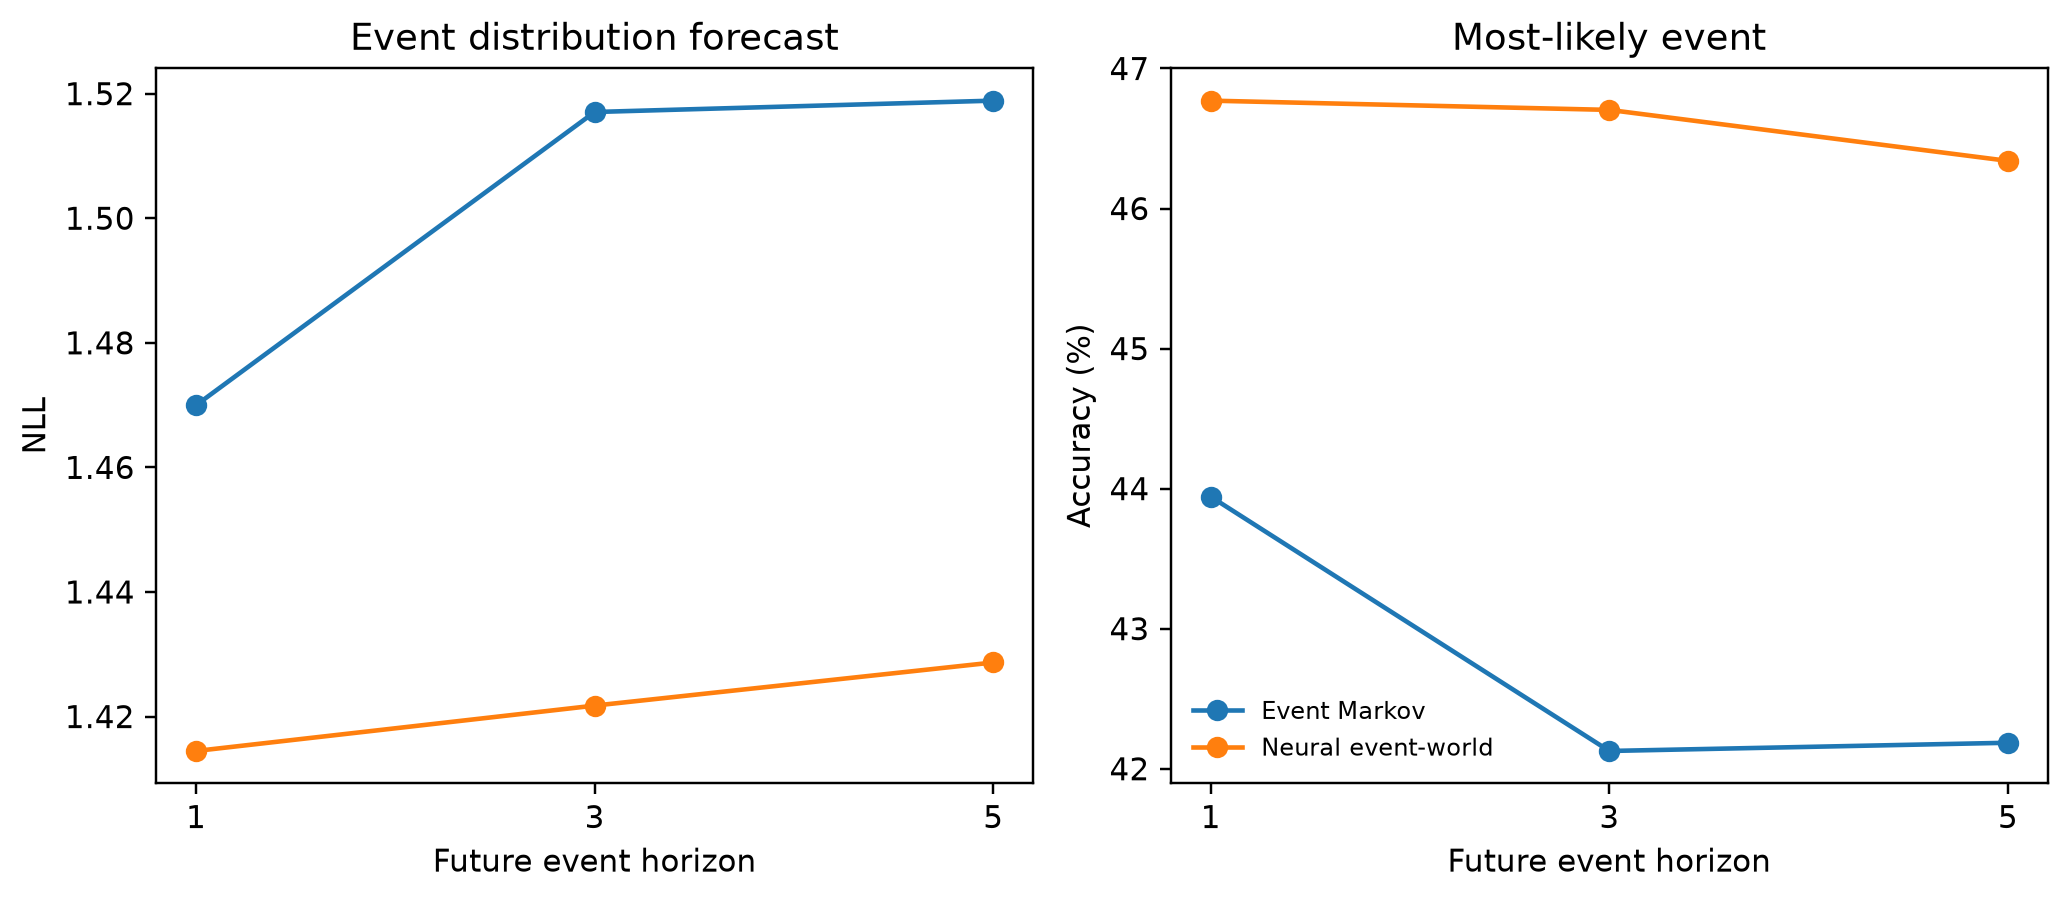
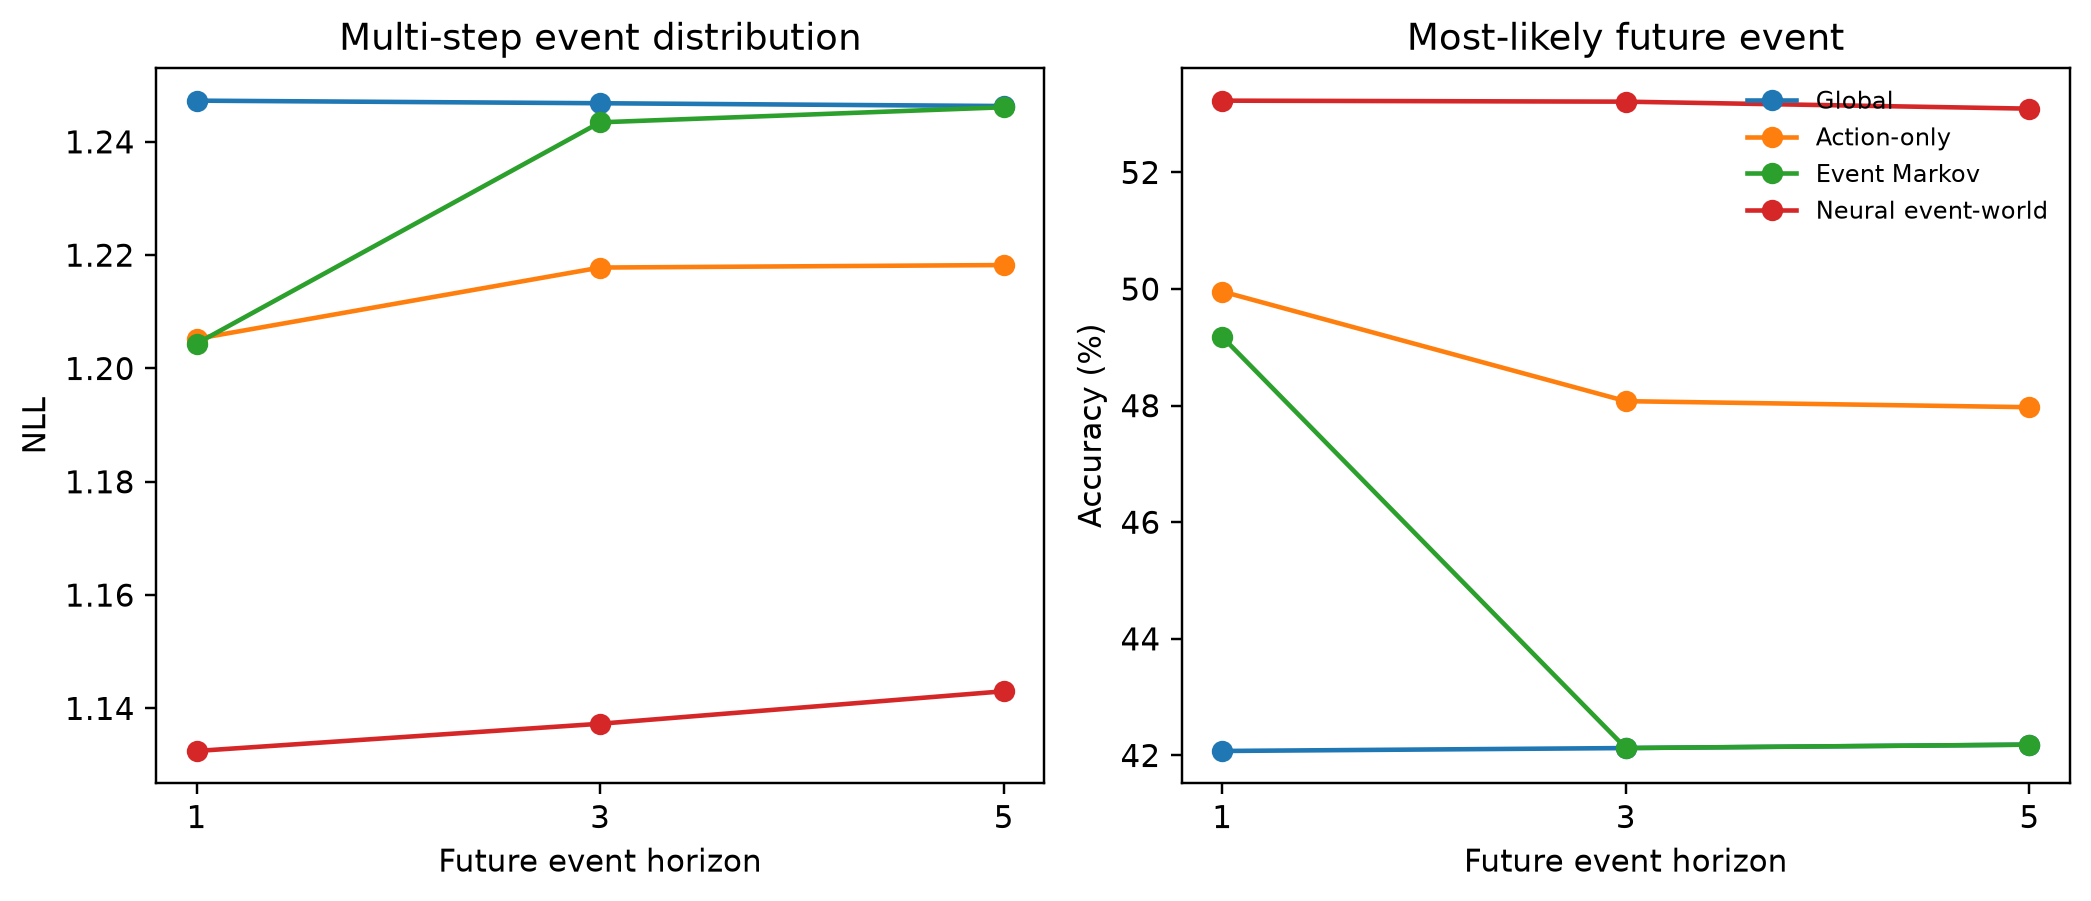
Add event-world view and social geometry colors

diff --git a/virtual-mouse-atlas/world_model.js b/virtual-mouse-atlas/world_model.js
@@ -22,6 +22,9 @@ function motifNeural(){return (current.trajectory||[]).map(x=>({step:x.step,moti
 function motifGate(){return (current.trajectory||[]).map(x=>({step:x.step,motif:x.gate_top_motif,label:x.gate_top_label}));}
 
 function eventActual(){return (EW.hero.actual||[]).map((id,i)=>({step:i+1,event:id,label:eventName(id)}));}
+function eventGlobal(){return (EW.hero.global_frequency||[]).map((x,i)=>({step:i+1,event:x.top,label:eventName(x.top),probs:x.probs}));}
+function eventPersistence(){return (EW.hero.persistence||[]).map((x,i)=>({step:i+1,event:x.top,label:eventName(x.top),probs:x.probs}));}
+function eventAction(){return (EW.hero.action_only||[]).map((x,i)=>({step:i+1,event:x.top,label:eventName(x.top),probs:x.probs}));}
 function eventMarkov(){return (EW.hero.markov||[]).map((x,i)=>({step:i+1,event:x.top,label:eventName(x.top),probs:x.probs}));}
 function eventNeural(){return (EW.hero.neural||[]).map((x,i)=>({step:i+1,event:x.top,label:eventName(x.top),probs:x.probs}));}
 function eventGate(){return (EW.hero.gate||[]).map((x,i)=>({step:i+1,event:x.top,label:eventName(x.top),probs:x.probs}));}
@@ -65,8 +68,9 @@ function selectEvent(fr){
 function setView(v){
   view=v;
   if(view==="event"){
-    current=WM.events.find(x=>Number(x.event_frame)===Number(WM.default_event_frame))||WM.events[0];
-    sel.value=String(WM.default_event_frame);seekCurrent();
+    const fr=Number(EW&&EW.hero?EW.hero.frame:WM.default_event_frame);
+    current=WM.events.find(x=>Number(x.event_frame)===fr)||WM.events[0];
+    sel.value=String(fr);seekCurrent();
   }
   if(viewToggle)viewToggle.querySelectorAll("button").forEach(b=>b.classList.toggle("active",b.dataset.view===view));
   sel.disabled=view==="event";btn.disabled=view==="event";
@@ -79,14 +83,14 @@ if(viewToggle)viewToggle.addEventListener("click",e=>{const b=e.target.closest("
 
 function renderHero(){
   if(view==="event"){
-    const act=eventActual(),nw=eventNeural(),mk=eventMarkov();
-    const [nn,nN]=matchCount(nw,act,"event"),[mn,mN]=matchCount(mk,act,"event");
-    const n=eventSummary("Neural world + event head"),m=eventSummary("Event Markov"),h5=horizonSummary(5);
+    const act=eventActual(),nw=eventNeural(),mk=eventMarkov(),ao=eventAction(),gl=eventGlobal();
+    const [nn,nN]=matchCount(nw,act,"event"),[mn,mN]=matchCount(mk,act,"event"),[an,aN]=matchCount(ao,act,"event"),[gn,gN]=matchCount(gl,act,"event");
+    const n=eventSummary("Neural world + event head"),m=eventSummary("Event Markov"),a=eventSummary("Action-only"),g=eventSummary("Global frequency"),h5=horizonSummary(5);
     const cards=[
-      ["Neural exact event steps",nn+"/"+nN,"top-1 Observe/bout matches"],
-      ["Event Markov exact steps",mn+"/"+mN,"same held-out future"],
-      ["One-step NLL",fmt(n.nll,3)+" vs "+fmt(m.nll,3),"Neural event-world vs Event Markov"],
-      ["5-step accuracy",pct(h5.neural_acc)+" vs "+pct(h5.markov_acc),"27 held-out animals"]
+      ["Hero exact steps","Neural "+nn+"/"+nN,"Action "+an+"/"+aN+" · Markov "+mn+"/"+mN+" · Global "+gn+"/"+gN],
+      ["One-step accuracy",pct(n.accuracy),"Action "+pct(a.accuracy)+" · Markov "+pct(m.accuracy)+" · Global "+pct(g.accuracy)],
+      ["One-step NLL",fmt(n.nll,3),"Linear "+fmt(eventSummary("Full-history linear").nll,3)+" · Markov "+fmt(m.nll,3)],
+      ["5-step accuracy",pct(h5.neural_acc),"Action "+pct(h5.action_acc)+" · Markov "+pct(h5.markov_acc)+" · Global "+pct(h5.global_acc)]
     ];
     heroStats.innerHTML=cards.map(c=>'<div class="world-hero-stat"><div class="k">'+c[0]+'</div><div class="v">'+c[1]+'</div><div class="d">'+c[2]+'</div></div>').join("");
     return;
@@ -126,10 +130,13 @@ function sequenceRow(label,kind,seq,actual,mode){
 }
 function renderSequence(){
   if(view==="event"){
-    const act=eventActual(),mk=eventMarkov(),nw=eventNeural(),gd=eventGate();
+    const act=eventActual(),gl=eventGlobal(),ps=eventPersistence(),ao=eventAction(),mk=eventMarkov(),nw=eventNeural(),gd=eventGate();
     strip.innerHTML=
-      '<div class="future-strip-head"><span>Same present</span><strong>→ next 8 Observe / bout events</strong><span>✓ exact top-1 event match</span></div>'+
+      '<div class="future-strip-head"><span>Same present</span><strong>→ next 8 Observe / feeding-bout events</strong><span>✓ exact top-1 event match</span></div>'+
       sequenceRow("Actual","actual",act,act,"event")+
+      sequenceRow("Global frequency","markov",gl,act,"event")+
+      sequenceRow("Persistence","markov",ps,act,"event")+
+      sequenceRow("Action-only","markov",ao,act,"event")+
       sequenceRow("Event Markov","markov",mk,act,"event")+
       sequenceRow("Neural event-world","neural",nw,act,"event")+
       sequenceRow("Social-gated","gated",gd,act,"event");

diff --git a/virtual-mouse-atlas/index.html b/virtual-mouse-atlas/index.html
@@ -55,7 +55,7 @@
       <article class="world-card">
         <div class="eyebrow" id="worldFutureEyebrow">FOUR FUTURES FROM THE SAME PRESENT</div>
         <canvas id="worldFutureMap"></canvas>
-        <img id="worldEventHeatmap" class="world-event-heatmap" src="assets/event_hero_heatmap_frame32731.png" alt="Observe and feeding-bout future event probability heatmap" hidden>
+        <img id="worldEventHeatmap" class="world-event-heatmap" src="assets/event_hero_heatmap_frame14894.png" alt="Observe and feeding-bout future event probability heatmap" hidden>
         <div class="world-legend" id="worldLegend"><span class="world-actual"></span>Actual <span class="world-markov"></span>Generative Markov <span class="world-normal"></span>Neural world <span class="world-gated"></span>Social-gated</div>
         <div class="world-caption" id="worldFutureCaption"></div>
       </article>
